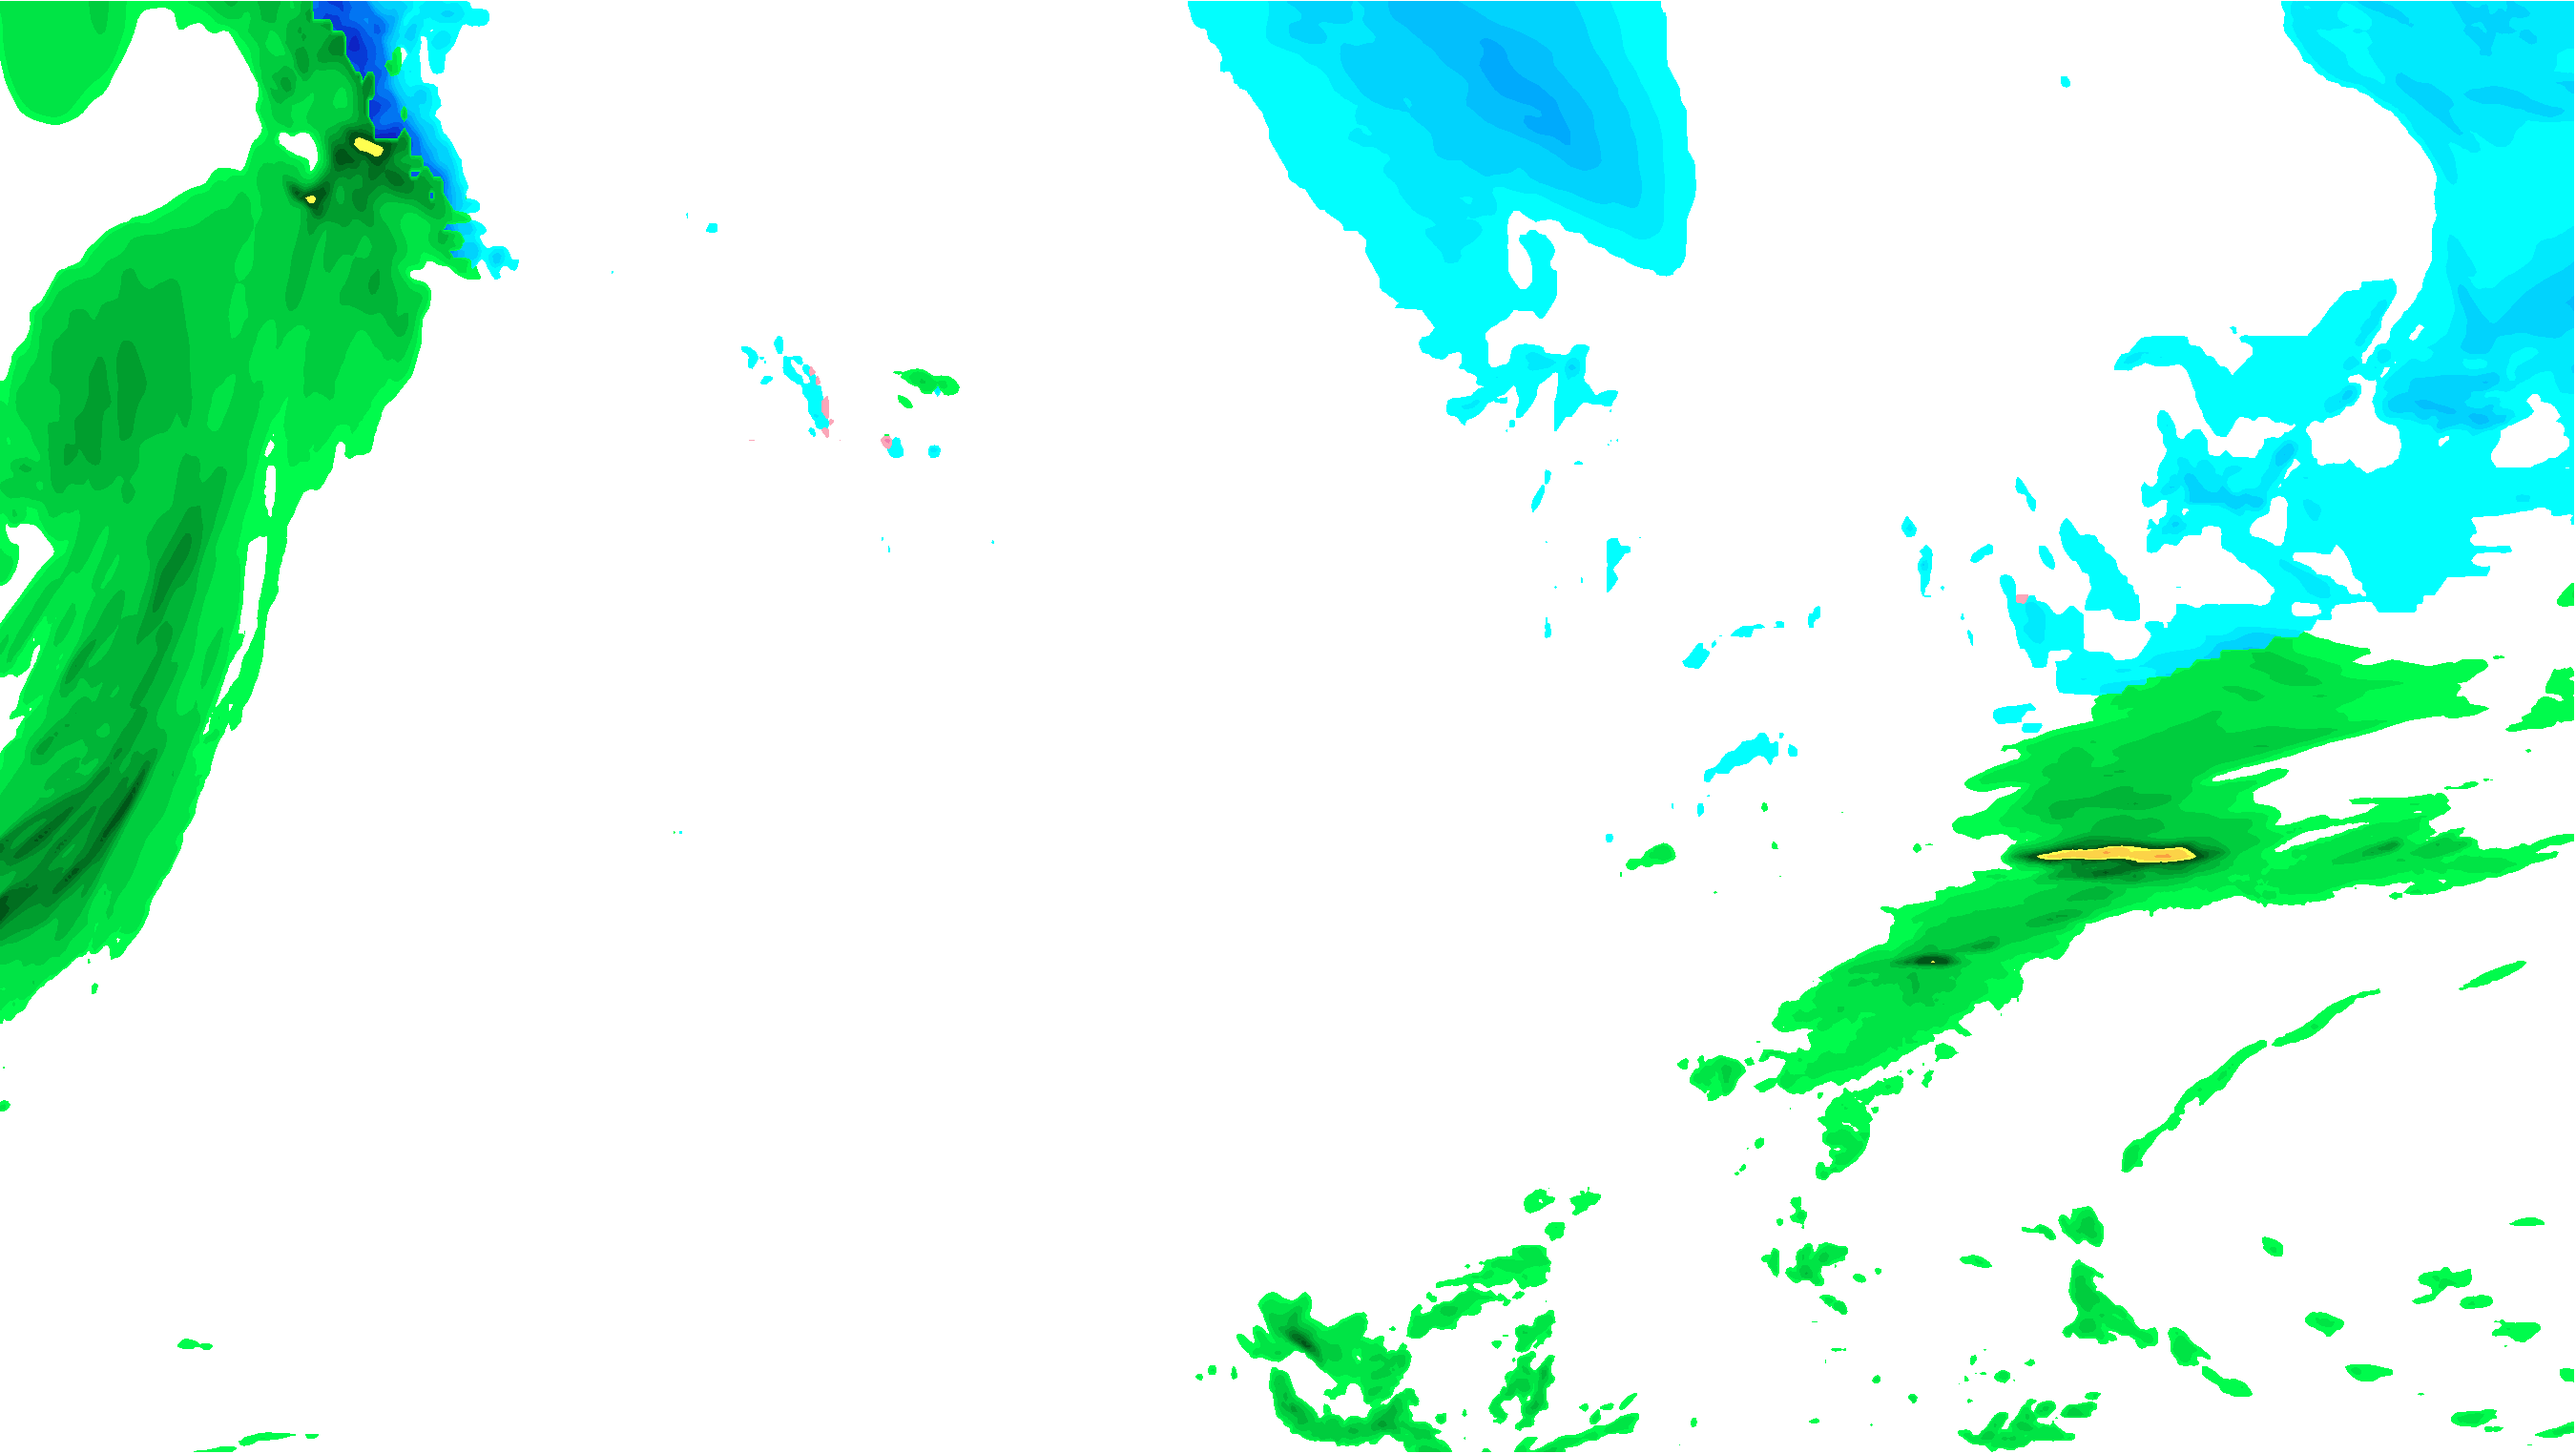
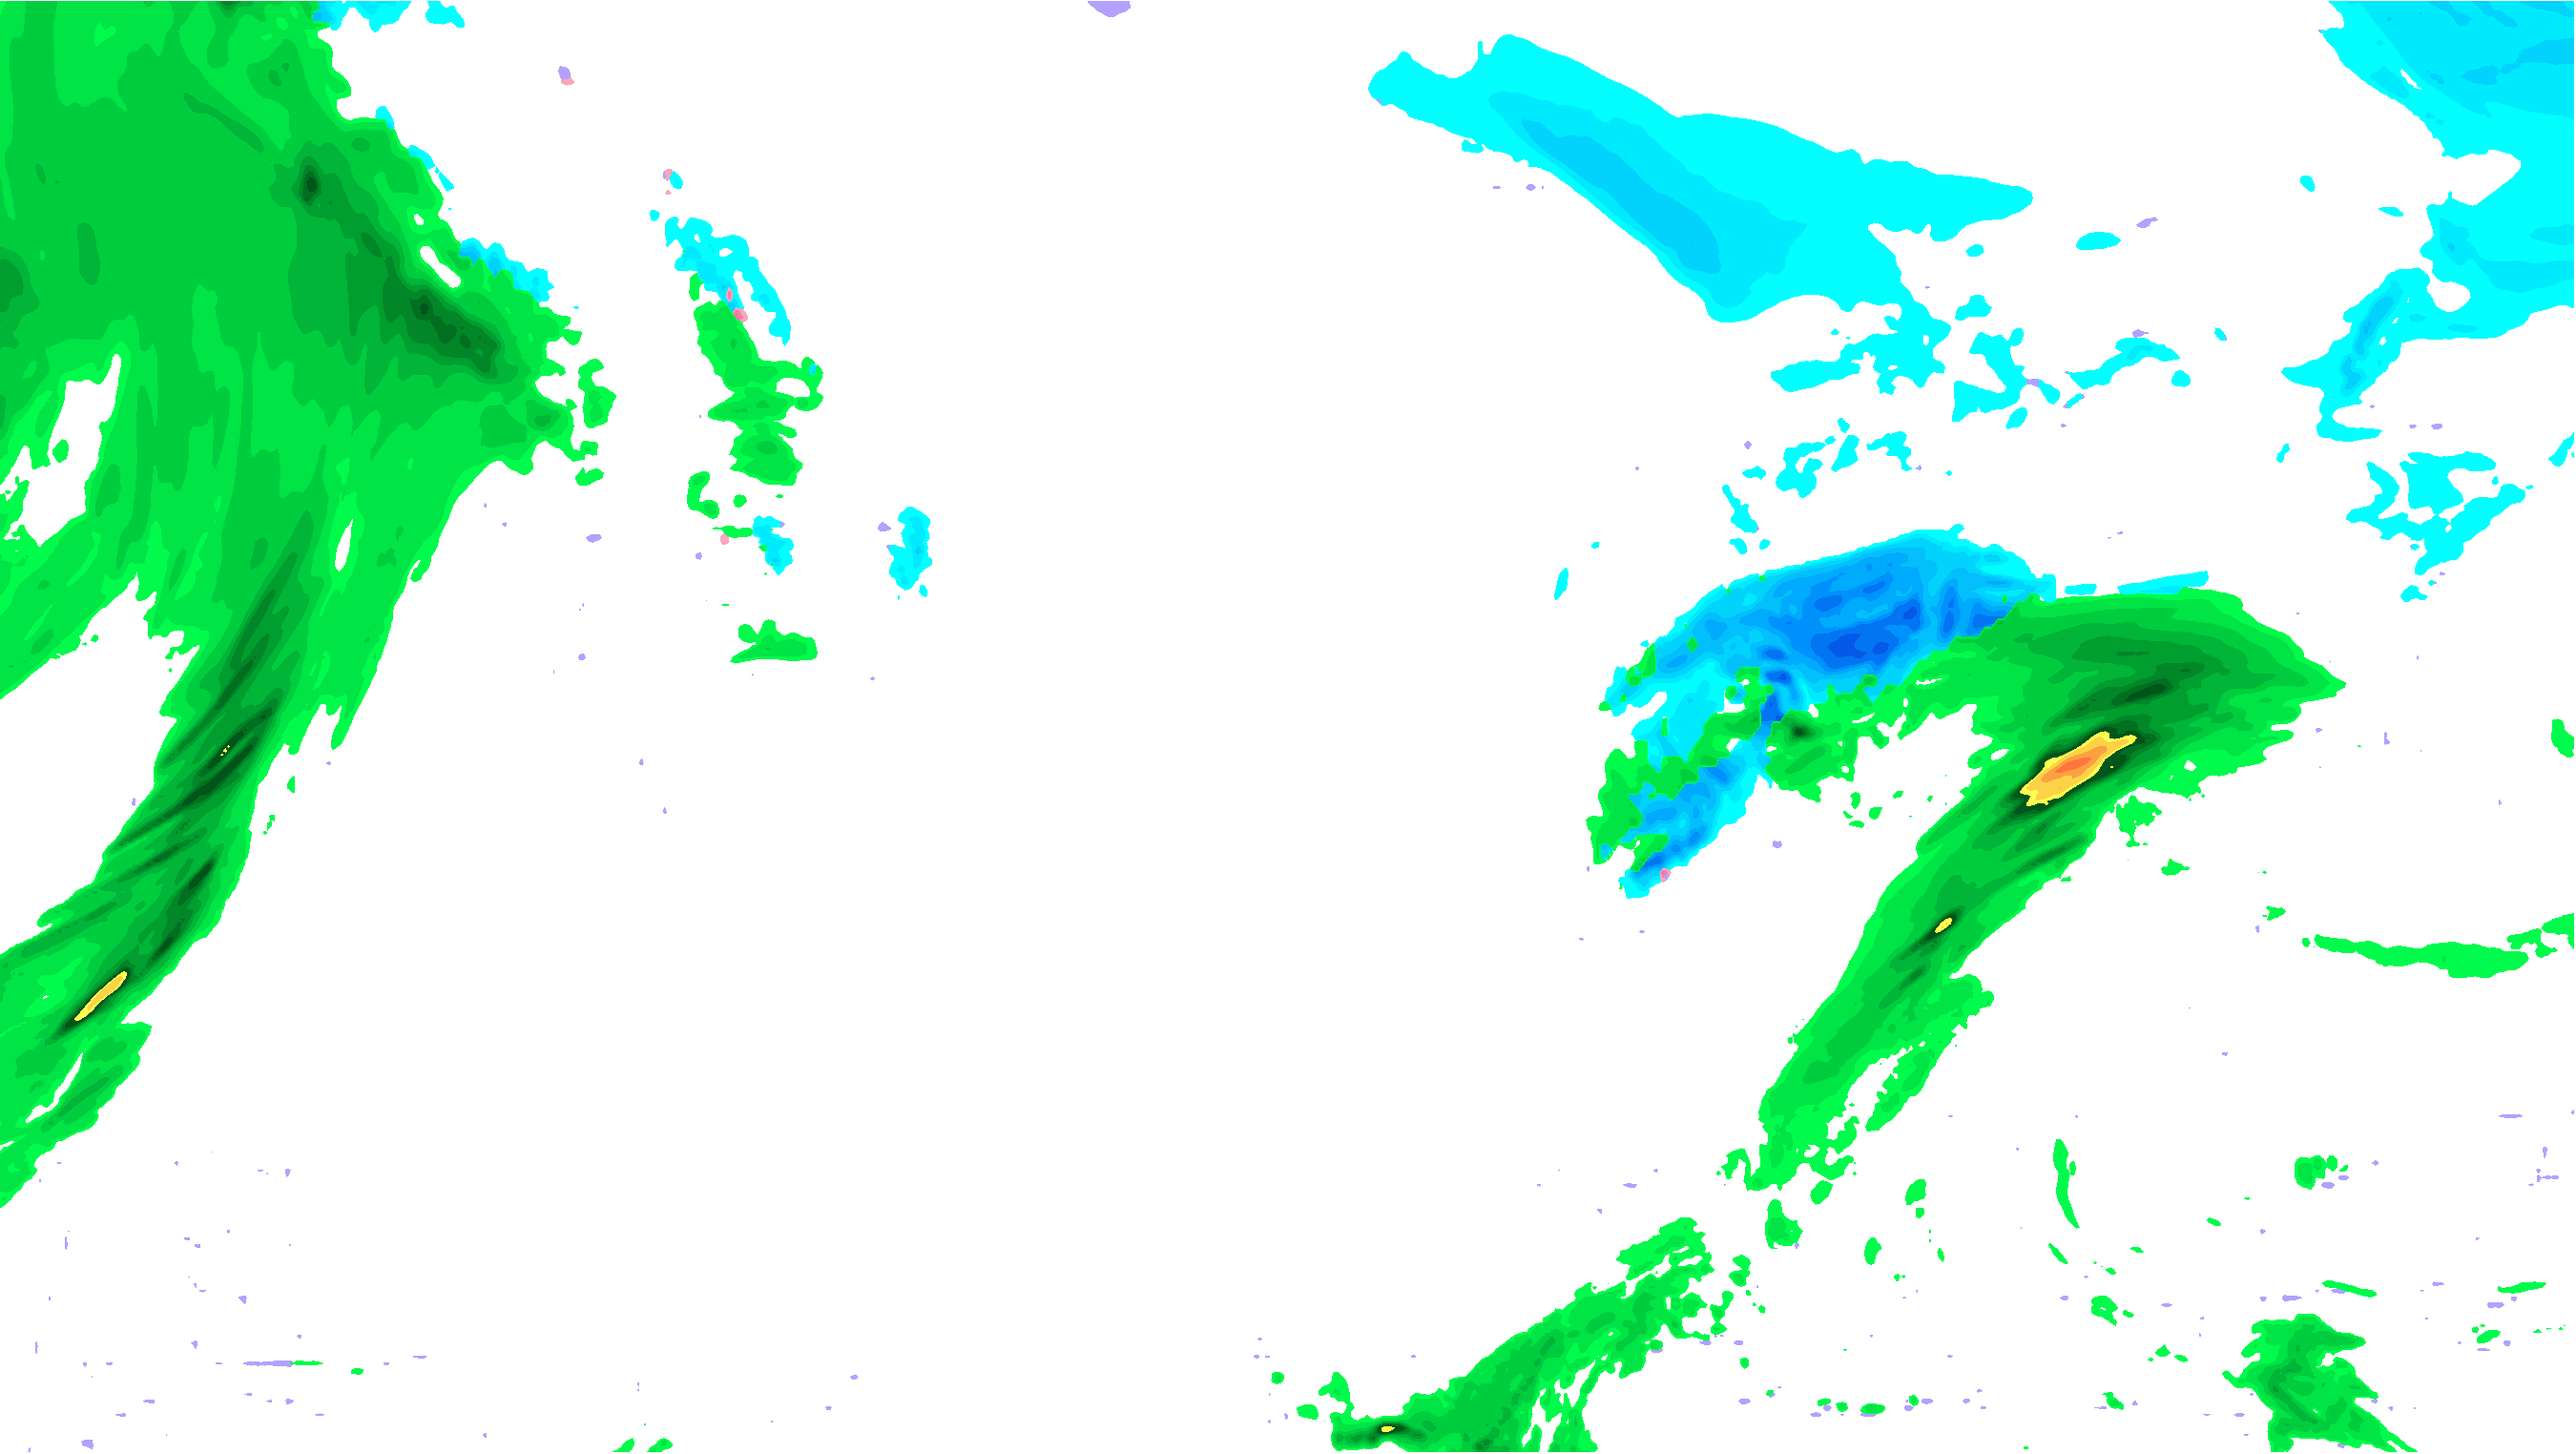
January 28, 2024 Update
Push new maps and backup scripts

diff --git a/index.html b/index.html
@@ -18,7 +18,7 @@
             <div id="map" class="webmap-new"></div>
           </div>
           <div class="map-info-embed">
-            <p id="currentDate" class="slider-header">Jan 21, 2024, 7 AM EST</p>
+            <p id="currentDate" class="slider-header">Jan 28, 2024, 7 AM EST</p>
           </div>
           <div class="sliderOverlay">
             <input type="range" id="dateSlider" class="slider" min="0" max="39" value="0" step="1">

diff --git a/main.js b/main.js
@@ -22,8 +22,8 @@ map.addControl(new mapboxgl.GeolocateControl({
 const dateTimes = [];
 
 // Set the start and end date
-const startDate = new Date('2024-01-21T12:00:00');
-const endDate = new Date('2024-02-10T23:00:00');
+const startDate = new Date('2024-01-28T12:00:00');
+const endDate = new Date('2024-02-20T23:00:00');
 
 // Loop through the hours between start and end dates
 let currentDate = startDate;

diff --git a/EC2 Backups/UCAR-GFS-Precip.py b/EC2 Backups/UCAR-GFS-Precip.py
@@ -1,0 +1,115 @@
+# -*- coding: utf-8 -*-
+"""
+Created on Sun Jan 14 01:59:44 2024
+
+@author: Administrator
+"""
+
+import os
+import glob
+import pygrib
+import numpy as np
+import xarray as xr
+import matplotlib.pyplot as plt
+import cartopy.crs as ccrs
+from skimage.transform import resize
+import monarchlibrary as ml
+import urllib.request
+from datetime import datetime
+
+def iCheck(i):
+    i = str(i)
+    if len(i)==1:
+        i = '00'+i
+    elif len(i)==2:
+        i = '0'+i
+    return i
+
+def createMap():
+    # Initialize map
+    fig = plt.figure(figsize=(9, 9))
+    fig.tight_layout()
+    ax = plt.axes(projection=ccrs.Mercator()) # Change CRS here as needed
+    
+    # Set desired map extent
+    conus_wide = [-143.0,-50.2,16.5,56.8]
+    conus_extent = [-109.38,-59.91,26.43,51.69]
+    extent = conus_wide
+    ax.set_extent(extent,ccrs.PlateCarree())
+    
+    return ax, extent
+    
+def readLocalData(data_path,extent):
+    # Open the GRIB file
+    data_path = data_path
+    ds = pygrib.open(data_path)
+
+    # Complete precipitation rate dataset
+    ds_prate = ds.select(name='Precipitation rate')[0]
+    
+    return ds_prate.data(lat1=extent[2],lat2=extent[3],lon1=extent[0]+360,lon2=extent[1]+360)
+
+def readCloudData(extent,prateShape,i):
+    # Open the NOMADS GFS file
+    ds = xr.open_dataset('http://nomads.ncep.noaa.gov:80/dods/gfs_0p25/gfs20240122/gfs_0p25_12z')
+        
+    cropped_ds = ds.sel(lat=slice(extent[2],extent[3]), lon=slice(extent[0]+360,extent[1]+360))
+    
+    #crain = np.nanmean(cropped_ds.crainsfc[0:2,:,:],axis=0)
+    #csnow = np.nanmean(cropped_ds.csnowsfc[0:2,:,:],axis=0)
+    #czr = np.nanmean(cropped_ds.cfrzrsfc[0:2,:,:],axis=0)
+    #cip = np.nanmean(cropped_ds.cicepsfc[0:2,:,:],axis=0)
+    
+    csnow = cropped_ds.csnowavesfc[int(int(i)/3),:,:]
+    
+    time = datetime.strptime(str(csnow.time.data)[0:13],"%Y-%m-%dT%H")
+        
+    csnow_resize = resize(csnow,prateShape,order=1)
+    
+    return csnow_resize, time
+
+def buildMap(i, ax, extent, total_precip, time, lon, lat):            
+    # Define color variables for mapping
+    cmap_accuprecip = ml.mapStyle.colors.cmap_accuprecip
+    levels_accuprecip = ml.mapStyle.colors.levels_accuprecip
+    norm_accuprecip = ml.mapStyle.colors.norm_accuprecip
+       
+    # Plot prate on map using contour fill         
+    cs = ax.contourf(lon, lat, total_precip, cmap=cmap_accuprecip, norm=norm_accuprecip, levels=levels_accuprecip, transform=ccrs.PlateCarree())
+
+    # Remove white space
+    plt.gca().set_axis_off()
+    plt.subplots_adjust(top = 1, bottom = 0, right = 1, left = 0, hspace = 0, wspace = 0)
+    plt.margins(0,0)
+    plt.gca().xaxis.set_major_locator(plt.NullLocator())
+    plt.gca().yaxis.set_major_locator(plt.NullLocator())
+
+    # Save map
+    plt.savefig(f'./Exports/GFS/accuprecip/{time.strftime("%Y%m%d%H")}.png',bbox_inches='tight',dpi=300,pad_inches=0, transparent=True)
+    
+    # Remove the rain contours
+    for coll1 in cs.collections:
+        coll1.remove
+
+def startScript():    
+    ax, extent = createMap() 
+
+    for i in np.arange(6,246,6):
+        i = str(i).zfill(3)
+        print(i)
+        
+        # Split out precip rate, latitude, and longitude
+        prate, lat, lon = readLocalData(f'./Data/GFS/MostRecent/{i}.grib2',extent)
+
+        csnow, time = readCloudData(extent,np.array(prate).shape,i)
+        
+        accuprecip = (prate*0.039370)*60*60*6
+        
+        if i == '006':
+            total_precip = accuprecip
+        else:
+            total_precip += accuprecip
+
+        buildMap(i,ax,extent,total_precip,time,lon,lat)
+
+startScript()

diff --git a/EC2 Backups/UCAR-GFS-Snow.py b/EC2 Backups/UCAR-GFS-Snow.py
@@ -1,0 +1,115 @@
+# -*- coding: utf-8 -*-
+"""
+Created on Sun Jan 14 01:59:44 2024
+
+@author: Administrator
+"""
+
+import os
+import glob
+import pygrib
+import numpy as np
+import xarray as xr
+import matplotlib.pyplot as plt
+import cartopy.crs as ccrs
+from skimage.transform import resize
+import monarchlibrary as ml
+import urllib.request
+from datetime import datetime
+
+def iCheck(i):
+    i = str(i)
+    if len(i)==1:
+        i = '00'+i
+    elif len(i)==2:
+        i = '0'+i
+    return i
+
+def createMap():
+    # Initialize map
+    fig = plt.figure(figsize=(9, 9))
+    fig.tight_layout()
+    ax = plt.axes(projection=ccrs.Mercator()) # Change CRS here as needed
+    
+    # Set desired map extent
+    conus_wide = [-143.0,-50.2,16.5,56.8]
+    conus_extent = [-109.38,-59.91,26.43,51.69]
+    extent = conus_wide
+    ax.set_extent(extent,ccrs.PlateCarree())
+    
+    return ax, extent
+    
+def readLocalData(data_path,extent):
+    # Open the GRIB file
+    data_path = data_path
+    ds = pygrib.open(data_path)
+
+    # Complete precipitation rate dataset
+    ds_prate = ds.select(name='Precipitation rate')[0]
+    
+    return ds_prate.data(lat1=extent[2],lat2=extent[3],lon1=extent[0]+360,lon2=extent[1]+360)
+
+def readCloudData(extent,prateShape,i):
+    # Open the NOMADS GFS file
+    ds = xr.open_dataset('http://nomads.ncep.noaa.gov:80/dods/gfs_0p25/gfs20240122/gfs_0p25_12z')
+        
+    cropped_ds = ds.sel(lat=slice(extent[2],extent[3]), lon=slice(extent[0]+360,extent[1]+360))
+    
+    #crain = np.nanmean(cropped_ds.crainsfc[0:2,:,:],axis=0)
+    #csnow = np.nanmean(cropped_ds.csnowsfc[0:2,:,:],axis=0)
+    #czr = np.nanmean(cropped_ds.cfrzrsfc[0:2,:,:],axis=0)
+    #cip = np.nanmean(cropped_ds.cicepsfc[0:2,:,:],axis=0)
+    
+    csnow = cropped_ds.csnowavesfc[int(int(i)/3),:,:]
+    
+    time = datetime.strptime(str(csnow.time.data)[0:13],"%Y-%m-%dT%H")
+        
+    csnow_resize = resize(csnow,prateShape,order=1)
+    
+    return csnow_resize, time
+
+def buildMap(i, ax, extent, total_precip, time, lon, lat):            
+    # Define color variables for mapping
+    cmap_accuprecip = ml.mapStyle.colors.cmap_accuprecip
+    levels_accuprecip = ml.mapStyle.colors.levels_accuprecip
+    norm_accuprecip = ml.mapStyle.colors.norm_accuprecip
+       
+    # Plot prate on map using contour fill         
+    cs = ax.contourf(lon, lat, total_precip, cmap=cmap_accuprecip, norm=norm_accuprecip, levels=levels_accuprecip, transform=ccrs.PlateCarree())
+
+    # Remove white space
+    plt.gca().set_axis_off()
+    plt.subplots_adjust(top = 1, bottom = 0, right = 1, left = 0, hspace = 0, wspace = 0)
+    plt.margins(0,0)
+    plt.gca().xaxis.set_major_locator(plt.NullLocator())
+    plt.gca().yaxis.set_major_locator(plt.NullLocator())
+
+    # Save map
+    plt.savefig(f'./Exports/GFS/accuprecip/{time.strftime("%Y%m%d%H")}.png',bbox_inches='tight',dpi=300,pad_inches=0, transparent=True)
+    
+    # Remove the rain contours
+    for coll1 in cs.collections:
+        coll1.remove
+
+def startScript():    
+    ax, extent = createMap() 
+
+    for i in np.arange(6,246,6):
+        i = str(i).zfill(3)
+        print(i)
+        
+        # Split out precip rate, latitude, and longitude
+        prate, lat, lon = readLocalData(f'./Data/GFS/MostRecent/{i}.grib2',extent)
+
+        csnow, time = readCloudData(extent,np.array(prate).shape,i)
+        
+        accuprecip = (prate*0.039370)*60*60*6
+        
+        if i == '006':
+            total_precip = accuprecip
+        else:
+            total_precip += accuprecip
+
+        buildMap(i,ax,extent,total_precip,time,lon,lat)
+
+startScript()

diff --git a/EC2 Backups/MRMS.py b/EC2 Backups/MRMS.py
@@ -1,0 +1,75 @@
+# -*- coding: utf-8 -*-
+"""
+Created on Wed Jan 17 03:28:14 2024
+
+@author: Administrator
+"""
+
+import os
+import ssl
+import time
+import gzip
+import pygrib
+import shutil
+import xarray as xr
+import urllib.request
+
+def createNetCDF(data,lon,lat,nc_file,untar_file):
+    # Define a new xarray dataset using reflectivity, latitude, and longitude
+    new_ds = xr.Dataset({'ref': (['lat', 'lon'], data)},
+                        coords={'lat': lat, 'lon': lon})
+    
+    # Save dataset as a NetCDF
+    new_ds.to_netcdf(nc_file)
+    os.remove(untar_file)
+    
+def fetchData():
+    # Define file names
+    tar_file = 'C:/Users/Administrator/Documents/SWIFT/Data/MRMS/latest15Reflectivity.grib2.gz'
+    untar_file = 'C:/Users/Administrator/Documents/SWIFT/Data/MRMS/latest15Reflectivity.grib2'
+    nc_file = 'C:/Users/Administrator/Documents/SWIFT/Data/MRMS/latest15Reflectivity.nc'
+    
+    # Remove .gz file
+    try:
+        os.remove(nc_file)
+    except:
+        print('Could not remove existing files. Check to see if they are missing.')
+    
+    # Download the data from NCEP
+    url = 'https://mrms.ncep.noaa.gov/data/2D/Reflectivity_-15C/MRMS_Reflectivity_-15C.latest.grib2.gz'
+    urllib.request.urlretrieve(url,tar_file) 
+        
+    # Untar and save as .grib2 file
+    with gzip.open(tar_file, 'rb') as f_in:
+        with open(untar_file, 'wb') as f_out:
+            shutil.copyfileobj(f_in, f_out)
+         
+    # Remove .gz file
+    os.remove(tar_file)
+    
+    # Open .grib2 file and select the data
+    MRMS = pygrib.open(untar_file).read(1)[0]
+
+    # Select the values of the data
+    data = MRMS.values
+
+    # Select the latitude and longitude grid
+    lat, lon = MRMS.latlons()
+
+    # Convert the lat/lon grid from 2D to 1D - necessary for saving as NetCDF
+    lon1D = lon[0,:]
+    lat1D = lat[:,0]
+
+    # Call function to save NetCDF
+    createNetCDF(data,lon1D,lat1D,nc_file,untar_file)
+
+# Workaround for urllib certificate error
+ssl._create_default_https_context = ssl._create_unverified_context
+
+# Run script continuously
+while (True):
+    # Execute the code
+    fetchData()
+    
+    # Code takes 24s to run, then sleep fo 276s. Update triggered every 5 min.
+    time.sleep(276)

diff --git a/EC2 Backups/Github-Upload.py b/EC2 Backups/Github-Upload.py
@@ -1,0 +1,25 @@
+# -*- coding: utf-8 -*-
+"""
+Created on Mon Jan 22 18:49:25 2024
+
+@author: Administrator
+"""
+
+# Upload images to a GitHub repo
+# Old code snipped - update repo keys and paths
+
+def githubUpload():
+    g = Github("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")
+    repo = g.get_repo("EFisher828/3D-Weather-Model-Data")
+    contents = repo.get_contents("./Images/Rainier/Snow")
+    for bil in range(21):
+        current_file = contents[bil]
+        name_raw = str(current_file.name)
+        name_split = name_raw.split('.')
+        name = name_split[0]
+        sha = current_file.sha
+        
+        file = open(f"./Exports/Rainier/Snow/{name}.png",'rb')
+        repo.update_file(f"./Images/Rainier/Snow/{name}.png", "upload new run", file.read(),sha)
+        
+githubUpload()

diff --git a/EC2 Backups/Convert-Grib2-to-NetCDF.py b/EC2 Backups/Convert-Grib2-to-NetCDF.py
@@ -1,0 +1,19 @@
+# -*- coding: utf-8 -*-
+"""
+Created on Wed Jan 17 13:54:52 2024
+
+@author: Administrator
+"""
+
+import os
+import iris
+
+baseDir = "C:/Users/Administrator/Documents/MonarchModels/Data/GFS/MostRecent"
+
+for file in os.listdir(baseDir):
+    input_filename = os.path.join(baseDir,file)
+    
+    output_filename = input_filename.split('.')[0] + '.nc'
+            
+    cubes = iris.load(input_filename)
+    iris.save(cubes,output_filename)

diff --git a/EC2 Backups/Grib2 to NetCDF.py b/EC2 Backups/Grib2 to NetCDF.py
@@ -1,0 +1,7 @@
+    # -*- coding: utf-8 -*-
+"""
+Created on Tue Jan 16 22:19:58 2024
+
+@author: Administrator
+"""
+
